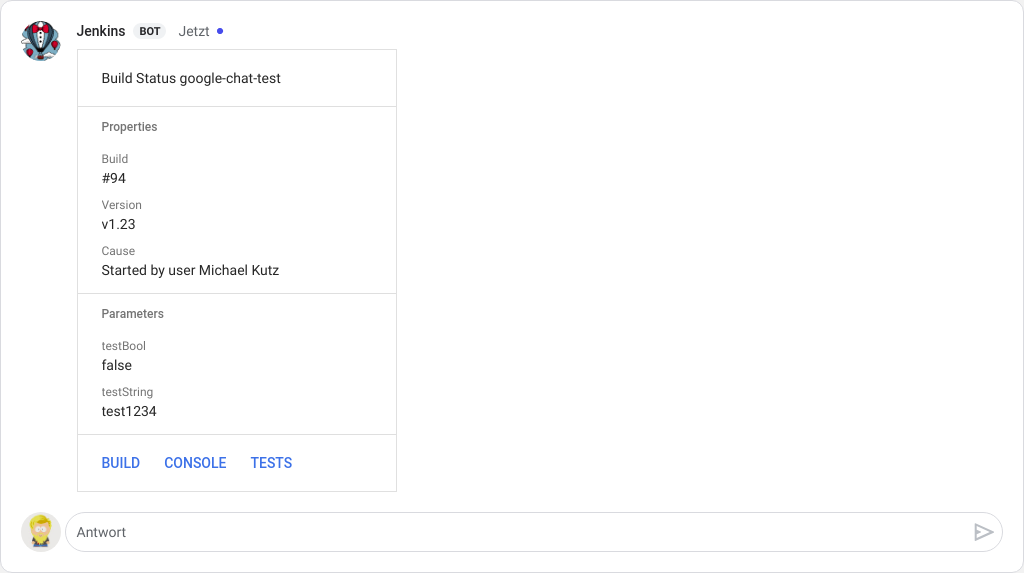
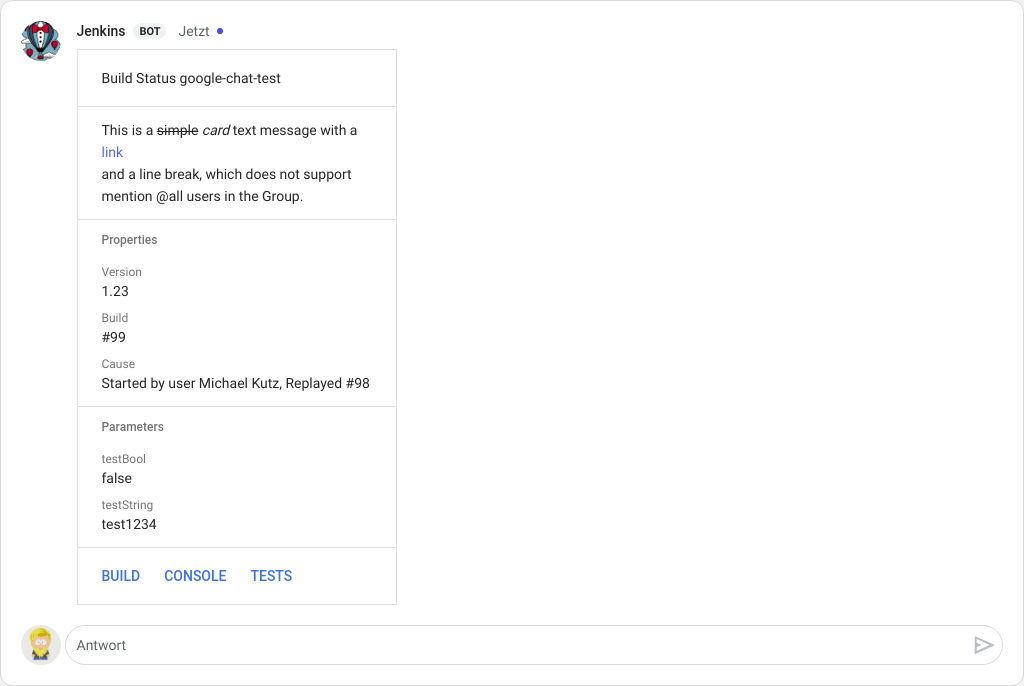
Add buildProperties parameter to sendGoogleChatBuildReport

diff --git a/README.md b/README.md
@@ -47,9 +47,14 @@ This step sends a bunch of data about the build as a [Card Message].
 #### Example
 
 ```groovy
-sendGoogleChatBuildReport(version: env.VERSION)
+sendGoogleChatBuildReport(Version: env.VERSION,
+    message: "This is a <strike>simple</strike> <i>card<i> text message " +
+                 "with a <a href=\"https://github.com/mkutz/jenkins-google-chat-notification\">link</a>" +
+                 "<br>and a line break, " +
+                 "which does not support mention @all users in the Group.")
 ```
 ![Image of the build report message in Google Chat](example-build-report.png)
+
 
 [Google Chat Service]: <https://developers.google.com/hangouts/chat/>
 [Simple Message]: <https://developers.google.com/hangouts/chat/reference/message-formats/basic>
